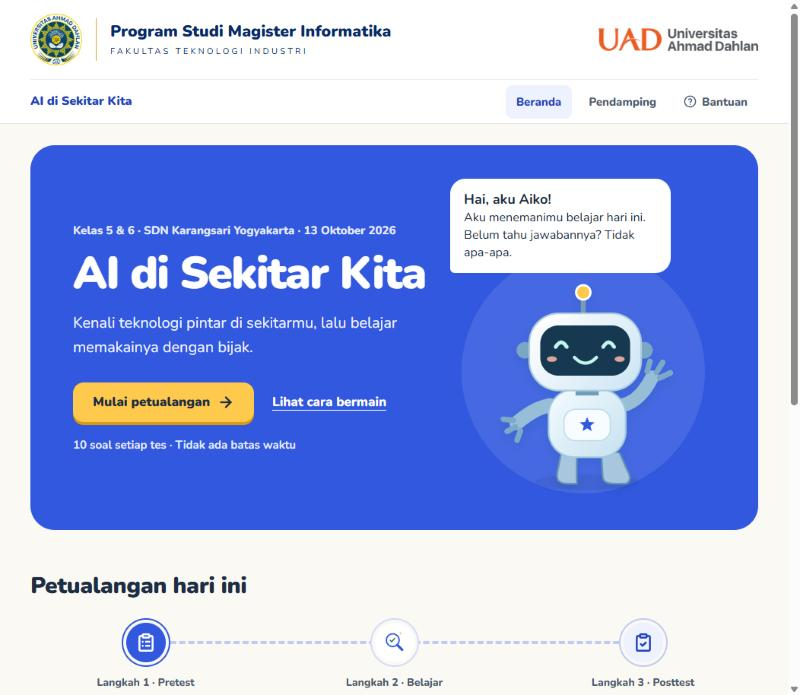
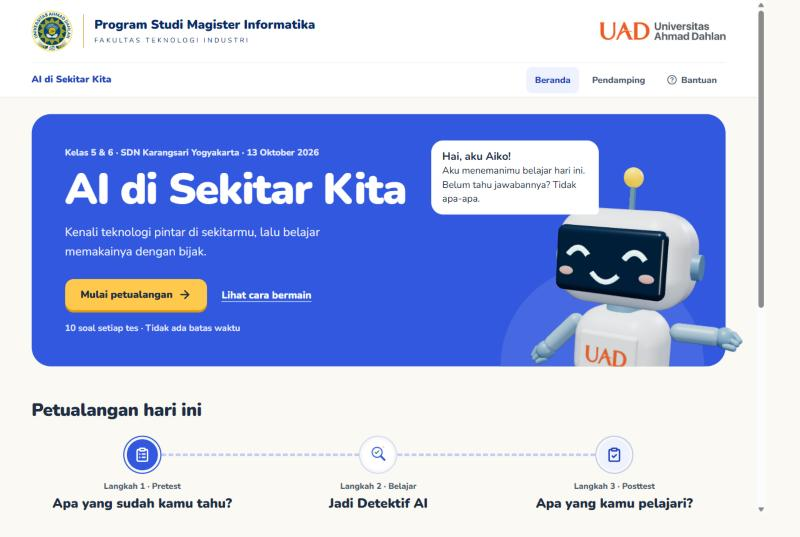
Tampilan responsif di semua layar, halaman galat ramah anak, README diperbarui
- Chromebook (ruang browser 1366x630): tombol utama terlihat tanpa menggulir di beranda, form nama, petualangan, latihan, soal, dan layar selesai; form nama dan latihan dua kolom; kepala halaman dirapatkan
- Ponsel: tab dashboard membungkus ke baris kedua (Sertifikat tidak terpotong), tombol Periksa jawaban satu baris, pilihan format sertifikat muat di panel
- Halaman tidak ditemukan dan layar galat dalam bahasa Indonesia bersama Aiko
- README: fitur Aiko 3D gaya layar, performa Chromebook, internet putus, struktur proyek, daftar gladi; tangkapan beranda baru

diff --git a/app/globals.css b/app/globals.css
@@ -545,7 +545,8 @@ th:last-child:has(.sr-only) { background: #f5f7fa; }
   .question-fieldset legend { font-size: 21px; }
   .question-instruction { font-size: 15px; margin-bottom: 18px; }
   .quiz-navigation { flex-wrap: wrap; gap: 12px; }
-  .quiz-navigation .button { flex: 1; padding-inline: 14px; }
+  .quiz-navigation .button { flex: 1; padding-inline: 12px; white-space: nowrap; }
+  .quiz-navigation .button:last-child { flex: 1.7; }
   .save-label { order: 3; width: 100%; }
   .quiz-hint { text-align: center; font-size: 14px; }
   .completion-art { width: 180px; }
@@ -577,6 +578,8 @@ th:last-child:has(.sr-only) { background: #f5f7fa; }
   .admin-stats dd span { display: block; margin: 5px 0 0; font-size: 12px; }
   .admin-stats p { display: none; }
   .roster-top { padding: 16px; gap: 14px; }
+  .admin-tabs { flex-wrap: wrap; gap: 4px; }
+  .admin-tabs button { padding-inline: 10px; white-space: nowrap; }
   .admin-tabs { gap: 2px; width: 100%; justify-content: space-between; }
   .admin-tabs button { font-size: 14px; padding-inline: 8px; }
   .table-controls { padding: 18px 16px; flex-direction: column; gap: 14px; }
@@ -612,6 +615,33 @@ th:last-child:has(.sr-only) { background: #f5f7fa; }
 .join-missing { margin: -10px 0 12px; text-align: center; }
 /* Layar pendek seperti Chromebook 1366x768 (sekitar 630px tersisa di browser): soal dirapatkan, navigasi menempel di bawah. */
 @media (max-height: 820px) and (min-width: 601px) {
+  /* Kepala halaman dan layar siswa dirapatkan agar tombol utama terlihat tanpa menggulir. */
+  .institution-header { min-height: 76px; padding-block: 10px; }
+  .institution-seal { width: 52px; height: 52px; }
+  .institution-copy strong { font-size: 18px; }
+  .institution-wordmark { width: 170px; }
+  .navigation-row { min-height: 50px; }
+  .hero { margin-top: 18px; padding-block: 32px; }
+  .hero h1 { margin-block: 10px 12px; }
+  .hero-actions { margin-top: 22px; }
+  .student-layout, .instructions-layout, .results-layout, .completion-layout { padding-top: 16px; }
+  .join-title { margin-top: 6px; }
+  .join-panel { padding: 22px 28px; }
+  .class-options { margin-block: 18px; }
+  .class-options label { min-height: 70px; padding-block: 10px; }
+  .privacy-note { margin-top: 12px; }
+  .aiko-says { margin-block: 10px 16px; }
+  .hub-heading h1 { font-size: 38px; }
+  .aiko-says .aiko3d { width: 100px; }
+  .journey-live .stop { flex-direction: row; gap: 14px; padding: 18px 20px; }
+  .journey-live .stop.now { padding: 17px 19px; }
+  .journey-live .stop-token, .journey-live .stop:first-child .stop-token { width: 46px; height: 46px; }
+  .practice-panel { padding: 22px 26px; }
+  .practice-panel h2 { margin-bottom: 14px; }
+  .practice-panel > .button { margin-top: 16px; }
+  .completion-art { width: 140px; margin-bottom: 4px; }
+  .completion-layout h1 { font-size: 40px; margin-block: 4px 8px; }
+  .completion-note { margin-block: 10px 14px; padding-block: 12px; }
   .quiz-layout { padding-block: 12px 24px; }
   .quiz-top { margin-bottom: 8px; }
   .quiz-card { padding: 18px 26px 20px; }
@@ -745,7 +775,8 @@ th:last-child:has(.sr-only) { background: #f5f7fa; }
   .hist-plot { gap: 3px; }
   .cert-actions .button { width: 100%; }
 }
-.cert-format { width: max-content; margin-top: 16px; }
+.cert-format { width: max-content; max-width: 100%; margin-top: 16px; }
+.cert-format button { flex: 1 1 auto; padding-inline: 12px; }
 /* Aiko 3D: lapisan kanvas menumpuk di atas Aiko 2D; 2D memudar saat 3D siap. Lapisan sedikit lebih besar agar lengan terangkat dan konfeti tidak terpotong. */
 .aiko3d { position: relative; display: block; }
 .aiko3d > .aiko3d-fallback { width: 100% !important; transition: opacity .5s ease; }
@@ -767,3 +798,18 @@ th:last-child:has(.sr-only) { background: #f5f7fa; }
 @media (prefers-reduced-motion: reduce) { .aiko3d-layer, .aiko3d > .aiko3d-fallback { transition: none; } }
 .aiko-says .aiko3d { width: 128px; }
 @media (max-width: 600px) { .aiko-says .aiko3d { width: 96px; } }
+/* Chromebook (lebar tetapi pendek): latihan dua kolom, judul dan aturan di kiri, soal latihan di kanan. */
+@media (max-height: 820px) and (min-width: 1000px) {
+  .instructions-layout { max-width: 1060px; display: grid; grid-template-columns: minmax(0, .85fr) minmax(0, 1.15fr); grid-template-rows: auto auto auto 1fr; column-gap: 36px; align-items: start; }
+  .instructions-layout > * { grid-column: 1; justify-self: start; }
+  .instructions-layout > .practice-panel { justify-self: stretch; }
+  .instructions-layout > .practice-panel { grid-column: 2; grid-row: 1 / span 4; margin-top: 8px; }
+  .instructions-layout .rule-list { flex-direction: column; align-items: flex-start; justify-content: flex-start; margin-top: 4px; }
+  /* Form nama: judul dan Aiko di kiri, isian di kanan, sehingga tombol Ayo masuk terlihat tanpa menggulir. */
+  .join-layout { max-width: 1060px; display: grid; grid-template-columns: minmax(0, .85fr) minmax(0, 1.15fr); grid-template-rows: auto auto 1fr; column-gap: 36px; align-items: start; }
+  .join-layout > * { grid-column: 1; justify-self: start; }
+  .join-layout > .join-panel { grid-column: 2; grid-row: 1 / span 3; justify-self: stretch; margin-top: 8px; }
+}
+@media (max-width: 400px) {
+  .quiz-navigation .button { gap: 6px; padding-inline: 10px; font-size: 17px; }
+}

diff --git a/app/error.tsx b/app/error.tsx
@@ -1,0 +1,19 @@
+"use client";
+
+import { useEffect } from "react";
+import { RotateCcw } from "lucide-react";
+import { Aiko } from "@/components/robot";
+
+// Pengganti layar galat bawaan Next.js (berbahasa Inggris dan menakutkan bagi anak). Jawaban sudah tersimpan di
+// server atau di perangkat, jadi anak cukup menekan Coba lagi.
+export default function Error({ error, retry }: { error: Error & { digest?: string }; retry: () => void }) {
+  useEffect(() => { console.error(error); }, [error]);
+  return <main className="loading-screen" id="main" role="alert">
+    <div>
+      <Aiko pose="reassure" className="state-aiko"/>
+      <h1 className="state-title">Ups, halaman ini tersendat.</h1>
+      <p>Jawabanmu tetap aman. Tekan Coba lagi. Kalau masih muncul, panggil kakak pendamping.</p>
+      <button className="button primary" onClick={() => retry()}><RotateCcw size={18}/>Coba lagi</button>
+    </div>
+  </main>;
+}

diff --git a/app/not-found.tsx b/app/not-found.tsx
@@ -1,0 +1,14 @@
+import Link from "next/link";
+import { Aiko } from "@/components/robot";
+
+// Alamat yang tidak ada (misalnya salah ketik di Chromebook): arahkan anak kembali ke Beranda dengan bahasa yang ramah.
+export default function NotFound() {
+  return <main className="loading-screen" id="main">
+    <div>
+      <Aiko pose="reassure" className="state-aiko"/>
+      <h1 className="state-title">Halaman ini tidak ditemukan.</h1>
+      <p>Mungkin alamatnya salah ketik. Yuk, kembali ke Beranda.</p>
+      <Link className="button primary" href="/">Ke Beranda</Link>
+    </div>
+  </main>;
+}

diff --git a/README.md b/README.md
@@ -42,7 +42,7 @@ Anak mengerjakan **tes awal (pretest)** sebelum materi, mengikuti materi dan per
 
 <table>
   <tr>
-    <td width="50%"><img src="docs/screenshots/beranda.jpg" alt="Beranda dengan Aiko melambai"><br><sub><b>Beranda.</b> Satu tombol mulai, Aiko menyapa, jalur tiga langkah.</sub></td>
+    <td width="50%"><img src="docs/screenshots/beranda.jpg" alt="Beranda dengan Aiko 3D muncul dari kotak biru"><br><sub><b>Beranda.</b> Kotak biru jadi layar: Aiko 3D menyapa dan tangannya keluar dari bingkai. Satu tombol mulai.</sub></td>
     <td width="50%"><img src="docs/screenshots/soal.jpg" alt="Layar soal"><br><sub><b>Soal.</b> Satu soal per layar, kartu jawaban besar, tersimpan otomatis.</sub></td>
   </tr>
   <tr>
@@ -61,10 +61,12 @@ Anak mengerjakan **tes awal (pretest)** sebelum materi, mengikuti materi dan per
 
 - **Masuk tanpa kata sandi.** Cukup nama dan kelas; nama dan kelas yang sama di Chromebook mana pun melanjutkan pekerjaan yang sama.
 - **Aiko sebagai pemandu.** Satu gelembung, satu instruksi per layar. Pose berganti sesuai situasi: melambai, membaca, berpikir, merayakan, menenangkan. Aiko tidak tampil di layar soal agar anak fokus.
-- **Aiko 3D sebagai pemanis.** Di beranda, halaman petualangan, layar selesai, dan hasil, Aiko 2D berganti menjadi Aiko 3D (three.js) yang bergerak, bisa diketuk, dan menoleh mengikuti kursor. Otomatis tetap 2D bila perangkat lambat, tanpa WebGL, atau memakai kurangi gerak; pendamping bisa mematikannya dari dashboard. Konsep: `output/ui-concept/konsep-aiko-3d.md`.
+- **Aiko 3D sebagai pemanis.** Di beranda, halaman petualangan, layar selesai, dan hasil, Aiko 2D berganti menjadi Aiko 3D (three.js) yang bergerak. Di beranda, kotak biru menjadi "layar": Aiko tampil dari kepala sampai dada, sedikit miring, tangannya keluar dari bingkai, bisa diketuk untuk ganti gerakan dan kalimat, dan menoleh mengikuti kursor. Konsep: `output/ui-concept/konsep-aiko-3d.md`.
+- **Ringan untuk Chromebook.** three.js dimuat belakangan saat browser senggang dan tidak dimuat di layar soal. Render 30 fps saat bergerak dan 15 fps saat diam, tanpa shadow map. Bila tersendat, resolusi diturunkan dulu; bila tetap di bawah 22 fps, Aiko kembali 2D. Juga tetap 2D bila tanpa WebGL, kurangi gerak, hemat data, atau GPU melepas konteks. Pendamping bisa mematikan Aiko 3D untuk semua perangkat dari dashboard.
 - **Jalur petualangan.** Langkah yang sedang dibuka berwarna biru dengan tombol, langkah selesai hijau, langkah terkunci menyebut alasannya.
 - **Jawaban aman saat internet terputus.** Setiap klik langsung disimpan ke server. Bila internet putus, jawaban disimpan di perangkat, anak tetap bisa lanjut mengerjakan, dan semuanya dikirim otomatis begitu tersambung lagi, termasuk setelah halaman dimuat ulang atau Chromebook dinyalakan ulang. Tombol kirim menunggu sampai semua terkirim.
-- **Muat di Chromebook.** Pada layar pendek soal dirapatkan dan tombol Lanjut menempel di bawah, jadi anak tidak perlu menggulir.
+- **Muat di Chromebook tanpa menggulir.** Diuji pada ruang browser Chromebook 1366x630 (layar 1366x768 dikurangi bilah Chrome dan rak). Tombol utama di beranda, form nama, halaman petualangan, latihan, soal, dan layar selesai terlihat tanpa menggulir; form nama dan latihan memakai dua kolom, tombol Lanjut di layar soal menempel di bawah. Juga diperiksa di ponsel 360 px dan tablet 768 px: tanpa geser samping, tanpa elemen terpotong.
+- **Pesan galat yang ramah.** Halaman yang tidak ada dan galat tak terduga ditampilkan dalam bahasa Indonesia bersama Aiko dan tombol kembali atau coba lagi, bukan layar bawaan berbahasa Inggris.
 - **Hasil yang ramah.** Pesan ditentukan dari nilai tes akhir; nilai yang turun tidak ditampilkan sebagai angka minus. Pembahasan baru dibuka saat pendamping menutup sesi agar kunci tidak tersebar ke teman yang masih mengerjakan.
 
 ### Untuk pendamping
@@ -111,6 +113,7 @@ sequenceDiagram
   Siswa->>Server: Nama + kelas
   loop Setiap klik jawaban
     Siswa->>Server: Simpan jawaban (antre, coba ulang otomatis)
+    Note over Siswa: Internet putus: antrean disimpan di perangkat,<br/>dikirim lagi saat tersambung
   end
   Siswa->>Server: Kirim tes awal (nilai dihitung server)
   Pendamping->>Server: Belajar, lalu Posttest
@@ -124,6 +127,7 @@ sequenceDiagram
 | Lapisan | Teknologi |
 |---|---|
 | Antarmuka | Next.js 16 (App Router), React 19, TypeScript, CSS biasa, font Nunito lokal, ikon Lucide |
+| Maskot 3D | three.js r186 (dimuat dinamis, satu renderer bersama), model prosedural tanpa file 3D |
 | Server | Route Handlers di `app/api`, node-postgres dengan `attachDatabasePool` |
 | Data | Neon Postgres (paket Free, Singapura), skema di `db/schema.sql` |
 | Ekspor | exceljs (dimuat saat diperlukan), fflate untuk ZIP, Canvas untuk sertifikat |
@@ -175,6 +179,8 @@ PENDAMPING_PASSWORD=<kata sandi uji lokal>
 app/
   api/                 Route Handlers siswa dan pendamping
   pendamping/          Halaman dashboard
+  not-found.tsx        Halaman tidak ditemukan (bahasa Indonesia)
+  error.tsx            Layar galat ramah anak dengan tombol Coba lagi
   globals.css          Seluruh gaya, termasuk layar pendek Chromebook
 components/
   experience.tsx       Alur siswa, sinkron tahap, antrean simpan jawaban
@@ -184,7 +190,9 @@ components/
   analytics.tsx        Tab Analitik
   certificates.tsx     Tab Sertifikat
   robot.tsx            Aiko (pose 2D) dan ikon
+  aiko-3d.tsx          Aiko 3D: fallback 2D, pemuatan saat senggang, ketuk dan tatapan
 lib/
+  aiko3d/engine.ts     Model, pose, dan renderer three.js bersama
   server/              Database, sesi, konten berkunci, query
   certificate.ts       Penomoran dan penggambaran sertifikat
   export-excel.ts      Rekap Excel berformat
@@ -200,6 +208,8 @@ council-out/           (lokal) laporan tinjauan multi-peran
 - [ ] Izin tertulis kepala sekolah untuk pengumpulan nama, kelas, dan jawaban siswa.
 - [ ] Daftar absen kelas 5 dan 6; tandai nama yang sama atau mirip dan minta anak tersebut menambahkan nomor absen.
 - [ ] Gladi di 2 sampai 3 Chromebook sekolah lewat Wi-Fi sekolah, lalu **Mulai sesi baru**.
+- [ ] Saat gladi, buka `https://prodamat.vercel.app/?aiko3d=paksa`, tekan F12, dan lihat baris `Aiko 3D: NN fps` di Console. Sekitar 28 sampai 30 berarti lancar. Bila beberapa Chromebook tersendat bersamaan, matikan saklar **Aiko 3D** di dashboard.
+- [ ] Uji internet putus di satu Chromebook: matikan Wi-Fi saat mengerjakan, jawab dua soal, nyalakan lagi, dan pastikan label berubah menjadi *Tersimpan*.
 - [ ] Semua pendamping masuk dashboard sebelum anak datang (sesi 12 jam).
 - [ ] Hanya satu orang yang menekan tombol tahap.
 - [ ] Pindah ke Belajar setelah jumlah *Pretest selesai* sama dengan jumlah anak hadir.
